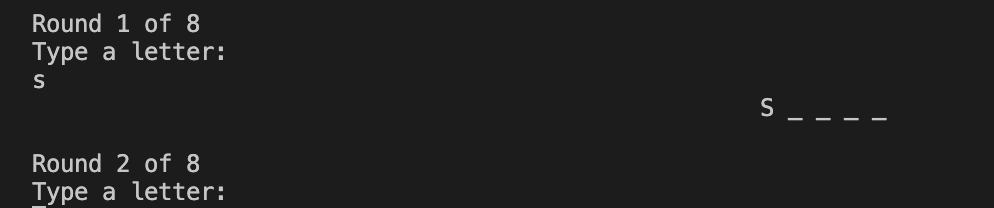
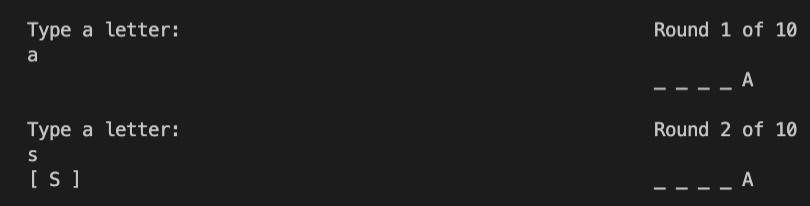
README update

diff --git a/run.py b/run.py
@@ -62,7 +62,7 @@ def error_handling(letter_from_user, failed, correct):
     """ Checks if letter_from_user is:
     More then one letter, a number, existing in failed and correct list.
     Prints out error-message to user.
-    Exampel: error_handling("E", ["E"], "E") return 
+    Exampel: error_handling("E", ["E"], "E") return
     """
     if not letter_from_user.isalpha():
         print("Ops, you entered a number ")
@@ -83,7 +83,8 @@ def input_from_user(failed, correct, round_info):
     """
     done = False
     while not done:
-        letter_from_user = input("Type a letter: " + round_info + "\n").capitalize()
+        letter_from_user = input("Type a letter: " + round_info + "\n")
+        letter_from_user = letter_from_user.capitalize()
         done = error_handling(letter_from_user, failed, correct)
     return letter_from_user
 
@@ -94,7 +95,8 @@ def main():
     failed = ""
     correct = correct_underscore(len(word))
     for round in range(10):
-        round_info = "                                          Round " + str(round+1) + " of 10 "
+        round_padding = "                                      Round "
+        round_info = round_padding + str(round+1) + " of 10 "
         letter_from_user = input_from_user(failed, correct, round_info)
         if letter_from_user not in word:
             failed = failed + "[ " + letter_from_user + " ]"

diff --git a/README.md b/README.md
@@ -1,18 +1,19 @@
 # Classic
- [Classic](https://emmabergner.github.io/blink/) is a Python terminal game, and inspired version of the classic game "hangman" but with a twist. 
+ [Classic](https://classic-meal.herokuapp.com/) is a Python terminal game, and inspired version of the classic game "hangman" but with a twist. 
  
- Classic can be used for playing and fun purposes but also as an application looking for lunch or dinner ideas. With a simple design and it's own twist. The idea is for users to have fun playing but also to get some inspiration for next coming meal of the day.
+ Classic can be used for playing and fun purposes, but also as an application looking for lunch or dinner ideas. With a simple design and it's own twist. The idea is for users to have fun playing but also to get some inspiration for next coming meal of the day.
  
- The terminal ask the user what the meal of the day is and prevents it by the end of the game. 
+ The terminal ask the user what the meal of the day is and shows the result at the end of the game. 
 
+ ![Ami Responsive Design ](/readme/ami.png)
 ## How to play
-Like the classic hangman game, the player guesses on a letter that could be apart of the chosen word, is told how long the word is and has a certain tries of guesses. In this version I have a specific theme on the words, which is different meals. 
+Like the classic hangman game:
+- The user starts by enter first guess on a letter that could be apart of the chosen word. 
+- The user is then told how many letters are in the word.
+- The letter will be printed by the terminal as a correct or wrong answer.  
+- The user has a certain tries of guesses and wins by entering the right letters before 10 guesses. 
 
- - The user starts by enter first guess of letter. 
-
-- The given letter will be printed by the terminal as a correct answer or wrong answer. 
-
-- The user wins by entering the right letters before 8 turns. 
+In my version I have choisen a specific theme for the diffrent words, which is different type of meals. For exampel: Pizza, salad or tacos.  
 
 ## Features
 
@@ -32,9 +33,8 @@ Like the classic hangman game, the player guesses on a letter that could be apar
     - Repeats 8 times unless user guess word before. 
 
 ### Future features 
-- I would like to add larger scale of words for the users.
-- Give users more options and choices. 
-- Allow users to choice different categories. 
+- I would also like to give users the opputunity to choice between different categories. 
+- I have a idea for the furture witch is using this as a "special of the day" application for resturants. Visitors can while queueing for the restaurant play the game and also be updated on today's special. 
 
 
 ### Lucid Chart 
@@ -55,15 +55,19 @@ Like the classic hangman game, the player guesses on a letter that could be apar
 
 ### Testing 
 I have tested this project through:
+- Chrome and Safari with no problems. 
 - The PEP8 linter and confirmed there are no problems. 
-- Given invalid inputs such as numbers when letters are expected. See result in "Input validation" section.
+- Given invalid inputs such as numbers, to many letters and alredy given letter. And error message will apear in the terminal.  
 
 ### Validator Tester
 - PEP8 
-    - No errors were returned from [PEP8](ADRESSHIT)
+    - No errors were returned from PEP8online.com
 
 ### Bugs
-- No found bugs 
+- No bugs found remaining.
+
+### Remaining Bugs
+- Does not work on Iphone and not well on Android. 
 
 ## Deployment 
 - The site was deployed to GitHub pages. The steps to deploy are as follows: 
